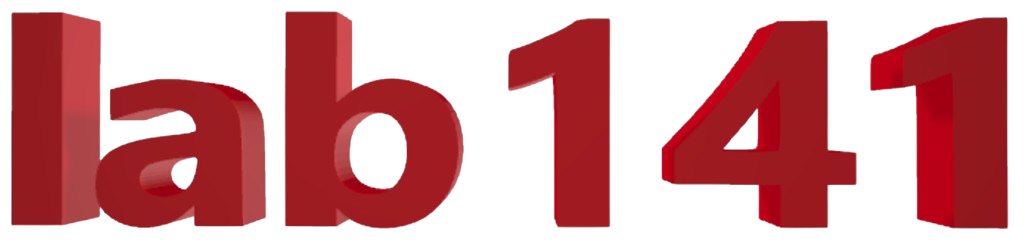
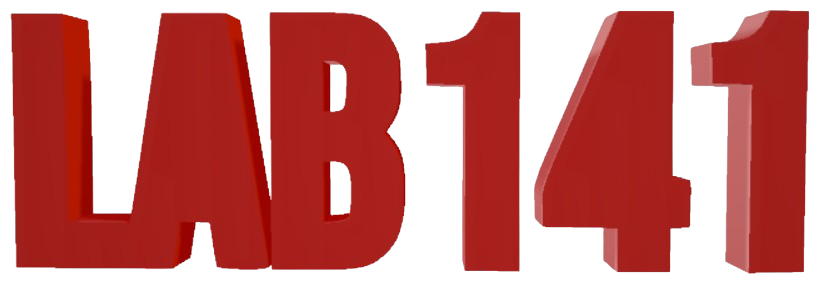
..

diff --git a/lab141/index.html b/lab141/index.html
@@ -10,7 +10,11 @@
     <link rel="icon" href="logo141.png" type="image/png">
     <link rel="stylesheet" href="https://cdnjs.cloudflare.com/ajax/libs/font-awesome/6.0.0-beta3/css/all.min.css">
     <script src="https://cdnjs.cloudflare.com/ajax/libs/p5.js/1.11.1/p5.js"></script>
+    <link rel="preconnect" href="https://fonts.googleapis.com">
+    <link rel="preconnect" href="https://fonts.gstatic.com" crossorigin>
+    <link href="https://fonts.googleapis.com/css2?family=Bebas+Neue&family=Roboto:ital,wght@0,100;0,300;0,400;0,500;0,700;0,900;1,100;1,300;1,400;1,500;1,700;1,900&display=swap" rel="stylesheet">
 </head>
+
 <body>
 
     <!--botão para carrinho de compras-->
@@ -38,99 +42,38 @@
             </a>
         </div>
 
-        <div class="hero">
-            <p class="title">Traga suas ideias para o mundo tridimensional!</p> 
-        </div>
+    
+            <div class="conteudo-principal">
 
-        <script src="sketch.js"></script>
+                <div class="hero">
 
-        <div class="conteudo-principal">
-
-            <div class="texto">
-
-                <p class="main-text">
-
-                    O LAB 141 é startup das estudantes multifacetadas Maria Luiza e Ana Luiza que abre portas para o novo mercado de peças 3D produzidas por impressoras específicas para o ramo. Por trás dessas produções, há um processo de criação 3D através de softwares específicos que é feita pelo almejado coqueluche estudante Luís Guilherme. <br> <br>
+                    <p class="title">Traga suas ideias <br>para o mundo <br>tridimensional!</p>
                     
-                    <div class="center">
+                    <p class="main-text">
+    
+                        Utilizando da tecnologia de <b>impressão 3D</b>, no Lab141 suas<br> ideias estão apenas a um pedido de distância. <br>
+                        
+                    </p> 
+
+                    <!--impressora-->
+                    <div>
+                        <script src="sketch.js"></script> 
+                    </div>
+
                         <button class="order-button">
-                        Faça seu pedido!
+                            Faça seu pedido!
                         </button>
-                    </div>
                     
-                                       
-                    <div class="div-table">
-                        <table class="table">
-                            <tr">
-                                <th class="thotel">HOTEL</th>
-                                <th class="tnota">NOTA</th>
-                                <a href="">
-                                    <th class="tlink">LINK</th>
-                                </a>
-                            </tr>
-                            <tr>
-                                <td>Inkaterra Machu Picchu Pueblo Hotel</td>
-                                <td>8.7</td>
-                                <td><a target="_blank" href="https://www.booking.com/hotel/pe/inkaterra-machu-picchu-pueblo.pt-br.html?label=GUIA-tabela-home-Machu_Picchu-9984__&sid=0bdd7124a1aa036d745e95aa78490c65&dist=0&keep_landing=1&sb_price_type=total&type=total&">Ver preços</a></td>
-                            </tr>
-                            <tr>
-                                <td>Picos House</td>
-                                <td>8.7</td>
-                                <td><a target="_blank" href="https://www.booking.com/hotel/pe/picos-house.pt-br.html?label=GUIA-tabela-home-Machu_Picchu-9984__&sid=0bdd7124a1aa036d745e95aa78490c65&dist=0&keep_landing=1&sb_price_type=total&type=total&">Ver preços</a></td>
-                            </tr>
-                            <tr>
-                                <td>Amakonkay Machupicchu</td>
-                                <td>8.7</td>
-                                <td><a target="_blank" href="https://www.booking.com/hotel/pe/hostal-amakonkay.pt-br.html?label=GUIA-tabela-home-Machu_Picchu-9984__&sid=0bdd7124a1aa036d745e95aa78490c65&dist=0&keep_landing=1&sb_price_type=total&type=total&">Ver preços</a></td>
-                            </tr>
-                            <tr>
-                                <td>Machu Picchu Land</td>
-                                <td>8.6</td>
-                                <td><a target="_blank" href="https://www.booking.com/hotel/pe/hostal-machupicchu-friends-house.pt-br.html?label=GUIA-tabela-home-Machu_Picchu-9984__&sid=0bdd7124a1aa036d745e95aa78490c65&dist=0&keep_landing=1&sb_price_type=total&type=total&">Ver preços</a></td>
-                            </tr>
-                            <tr>
-                                <td>Supertramp Hostel Machupicchu</td>
-                                <td>8.4</td>
-                                <td><a target="_blank" href="https://www.booking.com/hotel/pe/supertramp-hostel-machupicchu-machupicchu.pt-br.html?label=GUIA-tabela-home-Machu_Picchu-9984__&sid=0bdd7124a1aa036d745e95aa78490c65&dist=0&keep_landing=1&sb_price_type=total&type=total&">Ver preços</a></td>
-                            </tr>
-                            <tr>
-                                <td>Samananchis Machupicchu</td>
-                                <td>8.3</td>
-                                <td><a target="_blank" href="https://www.booking.com/hotel/pe/samananchis-machupicchu.pt-br.html?label=GUIA-tabela-home-Machu_Picchu-9984__&sid=0bdd7124a1aa036d745e95aa78490c65&dist=0&keep_landing=1&sb_price_type=total&type=total&">Ver preços</a></td>
-                            </tr>
-                            <tr>
-                                <td>Golden Sunrise Machupicchu</td>
-                                <td>8.2</td>
-                                <td><a target="_blank" href="https://www.booking.com/hotel/pe/golden-sunrise-machupicchu.pt-br.html?label=GUIA-tabela-home-Machu_Picchu-9984__&sid=0bdd7124a1aa036d745e95aa78490c65&dist=0&keep_landing=1&sb_price_type=total&type=total&">Ver preços</a></td>
-                            </tr>
-                            <tr>
-                                <td>Hotel Ferré Machu Picchu</td>
-                                <td>8.2</td>
-                                <td><a target="_blank" href="https://www.booking.com/hotel/pe/ferre-machu-picchu.pt-br.html?label=GUIA-tabela-home-Machu_Picchu-9984__&sid=0bdd7124a1aa036d745e95aa78490c65&dist=0&keep_landing=1&sb_price_type=total&type=total&">Ver preços</a></td>
-                            </tr>
-                            <tr>
-                                <td>Mapi Gardens Machupicchu B&B</td>
-                                <td>8.1</td>
-                                <td><a target="_blank" href="https://www.booking.com/hotel/pe/mapigardens-b-amp-b.pt-br.html?label=GUIA-tabela-home-Machu_Picchu-9984__&sid=0bdd7124a1aa036d745e95aa78490c65&dist=0&keep_landing=1&sb_price_type=total&type=total&">Ver preços</a></td>
-                            </tr>
-                            <tr>
-                                <td>PHotel Machupicchu Inn</td>
-                                <td>7.5</td>
-                                <td><a target="_blank" href="https://www.booking.com/hotel/pe/intillaqta.pt-br.html?label=GUIA-tabela-home-Machu_Picchu-9984__&sid=0bdd7124a1aa036d745e95aa78490c65&dist=0&keep_landing=1&sb_price_type=total&type=total&">Ver preços</a></td>
-                            </tr>
-                        </table>
-                    </div>
-                </p>   
+                </div>
+
+                               
 
             </div>
 
         </div>
 
         
-        <footer>
-            
-           
-        </footer>
+        <footer></footer>
 
     </div>
 

diff --git a/lab141/style.css b/lab141/style.css
@@ -1,9 +1,10 @@
 *{
-    padding: 0px;
-    margin: 0px;
+    padding: 0;
+    margin: 0;
     box-sizing: border-box;
     font-family: 'Segoe UI', Tahoma, Geneva, Verdana, sans-serif;
-    background-color: rgb(214, 63, 63);
+    background-color: rgb(238, 36, 36);
+    
 }
 
 i {
@@ -16,6 +17,7 @@ i {
 a {
     color: #f5f2f2; /* Altere 'black' para a cor desejada */
     text-decoration: none; /* Remove o sublinhado */
+    background-color: transparent;
 }
 
 a:hover {
@@ -32,7 +34,7 @@ a:hover {
     color: rgb(255, 255, 255); /* Cor do ícone ou texto */
     border: none; /* Remove bordas */
     border-radius: 50%; /* Torna o botão redondo */
-    box-shadow: 0px 4px 6px rgba(0, 0, 0, 0.2); /* Adiciona sombra para destacar */
+    box-shadow: 0px 4px 6px rgba(0, 0, 0, 0.248); /* Adiciona sombra para destacar */
     display: flex; /* Flexbox para centralizar o conteúdo */
     align-items: center; /* Centraliza verticalmente */
     justify-content: center; /* Centraliza horizontalmente */
@@ -55,8 +57,8 @@ a:hover {
 
 .topo{
     padding: 10px 0px 42px 50px;
-    background-color: rgba(255, 255, 255, 0.8); 
-    height: 45px;
+    background-color: rgba(250, 249, 243, 0.9); 
+    height: 60px;
     position: fixed;
     width: 100%;
     top: 0;
@@ -64,8 +66,9 @@ a:hover {
     color: #d13232;
 }
 
+
 .hero{
-    padding-top: 50em;
+    padding-top: 8em;
 }
 
 .icon{
@@ -85,14 +88,15 @@ a:hover {
 
 
 .title{
-    color: rgb(227, 222, 222);
-    font-family: Verdana, Geneva, Tahoma, sans-serif;
+    color: rgb(233, 229, 229);
+    font-family: "Bebas Neue", serif;
     font-weight: bolder;
-    font-size: 5em;
-    text-align: center;
-    margin: auto;
-    margin-top: 1em;
+    font-size: 7em;
+    text-align: left;
+    margin: none;
+    padding-top: 0em;
     padding-bottom: 0;
+    line-height: 1;
 }
 
 .logo img{
@@ -103,9 +107,9 @@ a:hover {
 
 .conteudo-principal{
     display: flex;
-    justify-content: center;
-    min-width: 600px;
+    justify-content: left;
     margin-top: 20px;
+    padding-left: 3em;
 }
 
 
@@ -115,57 +119,15 @@ a:hover {
     font-size: 24px;
     color: rgb(234, 227, 227);
     font-weight: lighter;
-    padding-top: 0;
-    text-align: center;
-}
-
-
-.div-table{
-    display: flex;
-    justify-content: center;
-}
-
-table{
-    width: 400px;
-    border-collapse: collapse;
-    margin-bottom: 40px;
-}
-td, th{
-    border: 2px solid rgb(231, 231, 231);
+    padding-top: 0.3em;
     text-align: left;
+    padding-left: 0.1em;
+    padding-bottom: 1em;
 }
-.thotel{
-    background-color: #871919;
-    color: white;
-    padding: 10px 250px;
-    border: none;
-}
-
-.tnota{
-    background-color: #a32020;
-    color: white;
-    padding: 10px 20px;
-    border: none;
-}
-.tlink{
-    background-color: #871919;
-    color: white;
-    padding: 10px 40px;
-    border: none;
-}
-
-td{
-   padding: 10px;
-}
-
-tr:nth-child(odd) td{
-    background-color: rgb(231, 231, 231);
-}
-
-
 
 footer{
     height: 15em;
+    width: 100%;
     background-color: rgba(255, 255, 255, 0.8);
 }
 
@@ -177,10 +139,11 @@ footer{
   }
   
   .hover-text {
-    font-size: 1.5em;
+    font-size: 2em;
     color: rgb(230, 17, 17);
-    background-color: none;
+    background-color: transparent;
     background-color: rgba(255, 255, 255, 0.1);
+    font-family: "Bebas Neue", serif;
   }
   
   .hover-image {
@@ -188,7 +151,7 @@ footer{
     position: absolute; /* Sobrepõe o texto no mesmo local */
     top: 0;
     left: -30%;
-    width: 200%; /* Ajusta-se ao tamanho do contêiner */
+    width: 150%; /* Ajusta-se ao tamanho do contêiner */
     background-color: rgba(255, 255, 255, 0.1);
   }
   
@@ -274,11 +237,11 @@ footer{
   
 /*login*/
 body {
-    display: flex;
+
     justify-content: center;
     align-items: center;
     height: 100vh;
-    background-color: #dc2f2f;
+    background-color: rgb(238, 36, 36);
 }
 
 .login-container {
@@ -380,11 +343,11 @@ input:focus {
     transition: background-color 0.3s ease;
     width: 25%;
     font-weight: bold;
+    margin-bottom: 3em;
 }
 
 .center{
     text-align: center;
     display: flex;
     justify-content: center;
-    padding-bottom: 25px;
 }

diff --git a/lab141/sketch.js b/lab141/sketch.js
@@ -9,13 +9,13 @@ function setup(){
 }
 
 function draw(){
-    //camera (0, 1000, 200);
-    colorMode (RGB);
-    background(214, 63, 63);
+    camera(-500, -1000, 100, 0, 0, 0, 0, 0, -2);
+    colorMode (HSL);
+    background(0, 85.6, 53.7);
     scale (width * 0.0014);
-    orbitControl(1, 1, 0);
+    orbitControl(7, 7, 7);
     noStroke();
-    directionalLight (0, 0, 840, 0.5, 0.5, -0.5);
+    directionalLight (0, 0, 500, 0.5, 0.5, -0.5);
     specularMaterial (250);
     shininess (1);
     model(ender);
